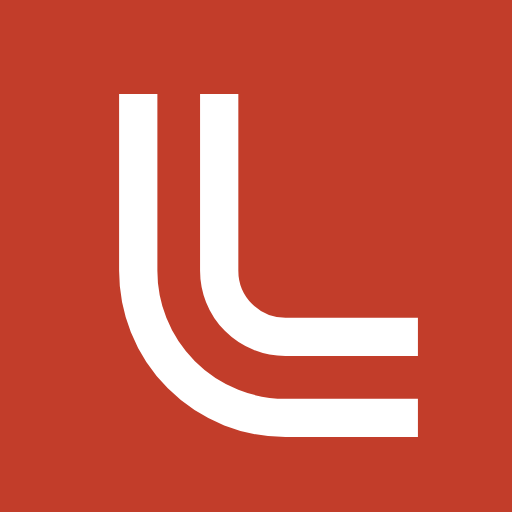
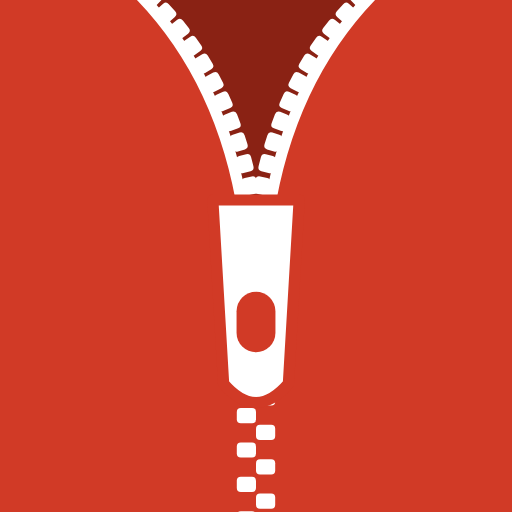
Ny symbol: dragkedjan. Nya appikoner och ett intro där dragkedjan dras upp
Claude-Session: https://claude.ai/code/session_01AwUbR1xwWbKDWtgtu7p8cN

Changed region(s): [[0.2188, 0.0, 0.8438, 1.0]]

diff --git a/index.html b/index.html
@@ -11,8 +11,10 @@
 <meta name="apple-mobile-web-app-status-bar-style" content="default">
 <meta name="apple-mobile-web-app-title" content="Löpkläder">
 <script>try{var t=(JSON.parse(localStorage.getItem("lopklader.v1.prefs")||"{}")||{}).theme;if(t==="light"||t==="dark")document.documentElement.dataset.theme=t}catch(e){}</script>
+<script>try{if(sessionStorage.getItem("lopklader.intro")||matchMedia("(prefers-reduced-motion: reduce)").matches)document.documentElement.classList.add("no-intro")}catch(e){}</script>
 <link rel="manifest" href="manifest.webmanifest">
-<link rel="icon" href="icon-192.png">
+<link rel="icon" href="favicon.svg" type="image/svg+xml">
+<link rel="icon" href="icon-192.png" type="image/png">
 <link rel="apple-touch-icon" href="apple-touch-icon.png">
 <link rel="preconnect" href="https://fonts.googleapis.com">
 <link rel="preconnect" href="https://fonts.gstatic.com" crossorigin>
@@ -51,9 +53,6 @@
   /* Topp */
   .top{display:flex;align-items:center;gap:9px}
   .logo{width:30px;height:30px;flex:none;display:block}
-  .logo .lane{stroke-dasharray:1;stroke-dashoffset:0}
-  .intro .logo .lane{animation:laneDraw .9s var(--ease) both}
-  .intro .logo .lane2{animation-delay:.15s}
   @keyframes laneDraw{from{stroke-dashoffset:1}to{stroke-dashoffset:0}}
   .wm{font-family:var(--cond);font-style:italic;font-weight:800;font-size:24px;line-height:1;text-transform:uppercase}
   .top-right{margin-left:auto;margin-right:-9px;display:flex;gap:0}
@@ -126,6 +125,16 @@
     #tabs{max-width:560px}
     #after{max-width:560px}
   }
+  /* intro */
+  #intro{position:fixed;inset:0;z-index:60;background:var(--paper);display:grid;place-items:center;transition:background-color .45s var(--ease)}
+  .no-intro #intro{display:none}
+  .intro-run #logo{opacity:0}
+  .intro-in{display:flex;flex-direction:column;align-items:center;gap:18px}
+  #introMark{width:112px;height:112px;transform-origin:center;transition:transform .5s var(--ease)}
+  .intro-wm{font-family:var(--cond);font-style:italic;font-weight:800;font-size:34px;line-height:1;text-transform:uppercase;opacity:0;translate:0 8px;transition:opacity .35s var(--ease),translate .35s var(--ease)}
+  .intro-wm.on{opacity:1;translate:0 0}
+  #intro.out{background-color:transparent;pointer-events:none}
+  #intro.out .intro-wm{opacity:0;transition-duration:.2s}
   .welcome{font-size:16px;line-height:1.45;color:var(--muted);margin:16px 0 0;max-width:36ch}
   .lay{position:relative;margin-top:24px;min-height:200px}
   .lay .it{position:absolute}
@@ -301,14 +310,11 @@
 </style>
 </head>
 <body>
+<div id="intro" aria-hidden="true"><div class="intro-in"><svg id="introMark" viewBox="0 0 64 64"><clipPath id="mki"><rect width="64" height="64" rx="15"/></clipPath><rect width="64" height="64" rx="15" fill="#D13A26"/><g clip-path="url(#mki)"><path d="M30.9 62 Q28.6 9 15.5 -2 H48.5 Q35.4 9 33.1 62 Z" fill="#8A2214"/><g class="zt-open"><rect x="30.66" y="56.19" width="2.2" height="1.9" rx=".5" transform="rotate(-93.1 31.76 57.14)" fill="#fff"/><rect x="30.17" y="48.56" width="2.2" height="1.9" rx=".5" transform="rotate(-94.3 31.27 49.51)" fill="#fff"/><rect x="29.54" y="41.42" width="2.2" height="1.9" rx=".5" transform="rotate(-95.7 30.64 42.37)" fill="#fff"/><rect x="28.79" y="34.78" width="2.2" height="1.9" rx=".5" transform="rotate(-97.3 29.89 35.73)" fill="#fff"/><rect x="27.91" y="28.63" width="2.2" height="1.9" rx=".5" transform="rotate(-99.1 29.01 29.58)" fill="#fff"/><rect x="26.89" y="22.97" width="2.2" height="1.9" rx=".5" transform="rotate(-101.3 27.99 23.92)" fill="#fff"/><rect x="25.75" y="17.80" width="2.2" height="1.9" rx=".5" transform="rotate(-103.8 26.85 18.75)" fill="#fff"/><rect x="24.47" y="13.12" width="2.2" height="1.9" rx=".5" transform="rotate(-106.8 25.57 14.07)" fill="#fff"/><rect x="23.06" y="8.92" width="2.2" height="1.9" rx=".5" transform="rotate(-110.5 24.16 9.87)" fill="#fff"/><rect x="21.51" y="5.21" width="2.2" height="1.9" rx=".5" transform="rotate(-115.1 22.61 6.16)" fill="#fff"/><rect x="19.82" y="1.98" width="2.2" height="1.9" rx=".5" transform="rotate(-120.6 20.92 2.93)" fill="#fff"/><rect x="17.97" y="-0.76" width="2.2" height="1.9" rx=".5" transform="rotate(-127.6 19.07 0.19)" fill="#fff"/><rect x="15.96" y="-3.03" width="2.2" height="1.9" rx=".5" transform="rotate(-136.1 17.06 -2.08)" fill="#fff"/><rect x="31.14" y="56.19" width="2.2" height="1.9" rx=".5" transform="rotate(-86.9 32.24 57.14)" fill="#fff"/><rect x="31.63" y="48.56" width="2.2" height="1.9" rx=".5" transform="rotate(-85.7 32.73 49.51)" fill="#fff"/><rect x="32.26" y="41.42" width="2.2" height="1.9" rx=".5" transform="rotate(-84.3 33.36 42.37)" fill="#fff"/><rect x="33.01" y="34.78" width="2.2" height="1.9" rx=".5" transform="rotate(-82.7 34.11 35.73)" fill="#fff"/><rect x="33.89" y="28.63" width="2.2" height="1.9" rx=".5" transform="rotate(-80.9 34.99 29.58)" fill="#fff"/><rect x="34.91" y="22.97" width="2.2" height="1.9" rx=".5" transform="rotate(-78.7 36.01 23.92)" fill="#fff"/><rect x="36.05" y="17.80" width="2.2" height="1.9" rx=".5" transform="rotate(-76.2 37.15 18.75)" fill="#fff"/><rect x="37.33" y="13.12" width="2.2" height="1.9" rx=".5" transform="rotate(-73.2 38.43 14.07)" fill="#fff"/><rect x="38.74" y="8.92" width="2.2" height="1.9" rx=".5" transform="rotate(-69.5 39.84 9.87)" fill="#fff"/><rect x="40.29" y="5.21" width="2.2" height="1.9" rx=".5" transform="rotate(-64.9 41.39 6.16)" fill="#fff"/><rect x="41.98" y="1.98" width="2.2" height="1.9" rx=".5" transform="rotate(-59.4 43.08 2.93)" fill="#fff"/><rect x="43.83" y="-0.76" width="2.2" height="1.9" rx=".5" transform="rotate(-52.4 44.93 0.19)" fill="#fff"/><rect x="45.84" y="-3.03" width="2.2" height="1.9" rx=".5" transform="rotate(-43.9 46.94 -2.08)" fill="#fff"/></g><path d="M16.1 -2 Q27.700000000000003 9 30.5 61" fill="none" stroke="#fff" stroke-width="1.4" stroke-linecap="round"/><path d="M47.9 -2 Q36.3 9 33.5 61" fill="none" stroke="#fff" stroke-width="1.4" stroke-linecap="round"/><g class="zt-closed"><rect x="29.6" y="63.5" width="2.4" height="1.9" rx=".5" fill="#fff"/><rect x="32" y="65.7" width="2.4" height="1.9" rx=".5" fill="#fff"/></g><g class="zp" transform="translate(32 59) scale(1.35) translate(-32 -59)"><path d="M28 59 H36 L35 76 Q32 79.5 29 76 Z" fill="#fff" stroke="#D13A26" stroke-width="1.04" stroke-linejoin="round"/><rect x="30.2" y="67.5" width="3.6" height="5.6" rx="1.8" fill="#D13A26"/></g></g></svg><span class="intro-wm">Löpkläder</span></div></div>
 <main class="app intro">
 
   <header class="top">
-    <svg class="logo" viewBox="0 0 64 64" aria-hidden="true">
-      <rect width="64" height="64" rx="14" fill="#D13A26"/>
-      <path class="lane" pathLength="1" d="M16 10v24a20 20 0 0 0 20 20h18" stroke="#fff" stroke-width="5" fill="none"/>
-      <path class="lane lane2" pathLength="1" d="M27 10v24a9 9 0 0 0 9 9h18" stroke="#fff" stroke-width="5" fill="none"/>
-    </svg>
+    <svg class="logo" id="logo" viewBox="0 0 64 64" aria-hidden="true"><clipPath id="mkh"><rect width="64" height="64" rx="15"/></clipPath><rect width="64" height="64" rx="15" fill="#D13A26"/><g clip-path="url(#mkh)"><path d="M30.9 28 Q28.6 9 15.5 -2 H48.5 Q35.4 9 33.1 28 Z" fill="#8A2214"/><g class="zt-open"><rect x="30.65" y="25.15" width="2.2" height="1.9" rx=".5" transform="rotate(-98.5 31.75 26.10)" fill="#fff"/><rect x="30.15" y="22.28" width="2.2" height="1.9" rx=".5" transform="rotate(-101.4 31.25 23.23)" fill="#fff"/><rect x="29.51" y="19.50" width="2.2" height="1.9" rx=".5" transform="rotate(-104.4 30.61 20.45)" fill="#fff"/><rect x="28.75" y="16.81" width="2.2" height="1.9" rx=".5" transform="rotate(-107.5 29.85 17.76)" fill="#fff"/><rect x="27.85" y="14.22" width="2.2" height="1.9" rx=".5" transform="rotate(-110.7 28.95 15.17)" fill="#fff"/><rect x="26.82" y="11.72" width="2.2" height="1.9" rx=".5" transform="rotate(-114.1 27.92 12.67)" fill="#fff"/><rect x="25.66" y="9.31" width="2.2" height="1.9" rx=".5" transform="rotate(-117.5 26.76 10.26)" fill="#fff"/><rect x="24.36" y="7.00" width="2.2" height="1.9" rx=".5" transform="rotate(-121.0 25.46 7.95)" fill="#fff"/><rect x="22.94" y="4.79" width="2.2" height="1.9" rx=".5" transform="rotate(-124.6 24.04 5.74)" fill="#fff"/><rect x="21.38" y="2.67" width="2.2" height="1.9" rx=".5" transform="rotate(-128.1 22.48 3.62)" fill="#fff"/><rect x="19.69" y="0.65" width="2.2" height="1.9" rx=".5" transform="rotate(-131.7 20.79 1.60)" fill="#fff"/><rect x="17.87" y="-1.27" width="2.2" height="1.9" rx=".5" transform="rotate(-135.2 18.97 -0.32)" fill="#fff"/><rect x="15.92" y="-3.09" width="2.2" height="1.9" rx=".5" transform="rotate(-138.6 17.02 -2.14)" fill="#fff"/><rect x="31.15" y="25.15" width="2.2" height="1.9" rx=".5" transform="rotate(-81.5 32.25 26.10)" fill="#fff"/><rect x="31.65" y="22.28" width="2.2" height="1.9" rx=".5" transform="rotate(-78.6 32.75 23.23)" fill="#fff"/><rect x="32.29" y="19.50" width="2.2" height="1.9" rx=".5" transform="rotate(-75.6 33.39 20.45)" fill="#fff"/><rect x="33.05" y="16.81" width="2.2" height="1.9" rx=".5" transform="rotate(-72.5 34.15 17.76)" fill="#fff"/><rect x="33.95" y="14.22" width="2.2" height="1.9" rx=".5" transform="rotate(-69.3 35.05 15.17)" fill="#fff"/><rect x="34.98" y="11.72" width="2.2" height="1.9" rx=".5" transform="rotate(-65.9 36.08 12.67)" fill="#fff"/><rect x="36.14" y="9.31" width="2.2" height="1.9" rx=".5" transform="rotate(-62.5 37.24 10.26)" fill="#fff"/><rect x="37.44" y="7.00" width="2.2" height="1.9" rx=".5" transform="rotate(-59.0 38.54 7.95)" fill="#fff"/><rect x="38.86" y="4.79" width="2.2" height="1.9" rx=".5" transform="rotate(-55.4 39.96 5.74)" fill="#fff"/><rect x="40.42" y="2.67" width="2.2" height="1.9" rx=".5" transform="rotate(-51.9 41.52 3.62)" fill="#fff"/><rect x="42.11" y="0.65" width="2.2" height="1.9" rx=".5" transform="rotate(-48.3 43.21 1.60)" fill="#fff"/><rect x="43.93" y="-1.27" width="2.2" height="1.9" rx=".5" transform="rotate(-44.8 45.03 -0.32)" fill="#fff"/><rect x="45.88" y="-3.09" width="2.2" height="1.9" rx=".5" transform="rotate(-41.4 46.98 -2.14)" fill="#fff"/></g><path d="M16.1 -2 Q27.700000000000003 9 30.5 27" fill="none" stroke="#fff" stroke-width="1.4" stroke-linecap="round"/><path d="M47.9 -2 Q36.3 9 33.5 27" fill="none" stroke="#fff" stroke-width="1.4" stroke-linecap="round"/><g class="zt-closed"><rect x="29.6" y="29.5" width="2.4" height="1.9" rx=".5" fill="#fff"/><rect x="32" y="31.6" width="2.4" height="1.9" rx=".5" fill="#fff"/><rect x="29.6" y="33.8" width="2.4" height="1.9" rx=".5" fill="#fff"/><rect x="32" y="35.9" width="2.4" height="1.9" rx=".5" fill="#fff"/><rect x="29.6" y="38.1" width="2.4" height="1.9" rx=".5" fill="#fff"/><rect x="32" y="40.2" width="2.4" height="1.9" rx=".5" fill="#fff"/><rect x="29.6" y="42.4" width="2.4" height="1.9" rx=".5" fill="#fff"/><rect x="32" y="44.5" width="2.4" height="1.9" rx=".5" fill="#fff"/><rect x="29.6" y="46.7" width="2.4" height="1.9" rx=".5" fill="#fff"/><rect x="32" y="48.8" width="2.4" height="1.9" rx=".5" fill="#fff"/><rect x="29.6" y="51.0" width="2.4" height="1.9" rx=".5" fill="#fff"/><rect x="32" y="53.1" width="2.4" height="1.9" rx=".5" fill="#fff"/><rect x="29.6" y="55.3" width="2.4" height="1.9" rx=".5" fill="#fff"/><rect x="32" y="57.4" width="2.4" height="1.9" rx=".5" fill="#fff"/><rect x="29.6" y="59.6" width="2.4" height="1.9" rx=".5" fill="#fff"/><rect x="32" y="61.7" width="2.4" height="1.9" rx=".5" fill="#fff"/><rect x="29.6" y="63.9" width="2.4" height="1.9" rx=".5" fill="#fff"/></g><g class="zp" transform="translate(32 25) scale(1.35) translate(-32 -25)"><path d="M28 25 H36 L35 42 Q32 45.5 29 42 Z" fill="#fff" stroke="#D13A26" stroke-width="1.04" stroke-linejoin="round"/><rect x="30.2" y="33.5" width="3.6" height="5.6" rx="1.8" fill="#D13A26"/></g></g></svg>
     <span class="wm">Löpkläder</span>
     <div class="top-right">
       <button class="icon-btn" id="meBtn" aria-label="Om dig"><span data-ic="user"></span></button>
@@ -1644,6 +1650,62 @@
     if(document.visibilityState === "visible" && place && Date.now() - fetchedAt > 20*60*1000) getWeather(place.lat, place.lon, place.name);
   });
 
+  // ---------- Symbolen och introt ----------
+  // Dragkedjan: vy är hur långt ned den är öppen (28 är logotypen, 62 helt öppen)
+  function markSVG(vy, cid){
+    const RED = "#D13A26", IN = "#8A2214", FG = "#fff", k = 1.35;
+    const cx = 28.6 - (vy - 28) * .12;
+    const L = [[30.9, vy], [cx, 9], [15.5, -2]], R = [[33.1, vy], [64 - cx, 9], [48.5, -2]];
+    const qb = (P, t) => [0, 1].map(j => (1 - t) ** 2 * P[0][j] + 2 * (1 - t) * t * P[1][j] + t * t * P[2][j]);
+    const qd = (P, t) => [0, 1].map(j => 2 * (1 - t) * (P[1][j] - P[0][j]) + 2 * t * (P[2][j] - P[1][j]));
+    let s = `<clipPath id="${cid}"><rect width="64" height="64" rx="15"/></clipPath><rect width="64" height="64" rx="15" fill="${RED}"/><g clip-path="url(#${cid})">`;
+    s += `<path d="M${L[0]} Q${L[1]} ${L[2]} H${R[2][0]} Q${R[1]} ${R[0]} Z" fill="${IN}"/>`;
+    [[L, 1], [R, -1]].forEach(([P, sg]) => {
+      for(let i = 0; i < 13; i++){
+        const t = (i + .6) / 13, [x, y] = qb(P, t), [dx, dy] = qd(P, t), l = Math.hypot(dx, dy), ux = dx / l, uy = dy / l;
+        const ex = x - uy * sg * 1.1, ey = y + ux * sg * 1.1, a = Math.atan2(uy, ux) * 180 / Math.PI;
+        s += `<rect x="${(ex - 1.1).toFixed(2)}" y="${(ey - .95).toFixed(2)}" width="2.2" height="1.9" rx=".5" transform="rotate(${a.toFixed(1)} ${ex.toFixed(2)} ${ey.toFixed(2)})" fill="${FG}"/>`;
+      }
+    });
+    s += `<path d="M16.1 -2 Q${cx - .9} 9 ${L[0][0] - .4} ${vy - 1}" fill="none" stroke="${FG}" stroke-width="1.4" stroke-linecap="round"/>`;
+    s += `<path d="M47.9 -2 Q${64 - cx + .9} 9 ${R[0][0] + .4} ${vy - 1}" fill="none" stroke="${FG}" stroke-width="1.4" stroke-linecap="round"/>`;
+    for(let y = vy + 1.5, i = 0; y < 66; y += 2.15, i++) s += `<rect x="${i % 2 ? 32 : 29.6}" y="${y.toFixed(1)}" width="2.4" height="1.9" rx=".5" fill="${FG}"/>`;
+    s += `<g transform="translate(32 ${vy - 3}) scale(${k}) translate(-32 ${-(vy - 3)})"><path d="M28 ${vy - 3} H36 L35 ${vy + 14} Q32 ${vy + 17.5} 29 ${vy + 14} Z" fill="${FG}" stroke="${RED}" stroke-width="${(1.4 / k).toFixed(2)}" stroke-linejoin="round"/><rect x="30.2" y="${vy + 5.5}" width="3.6" height="5.6" rx="1.8" fill="${RED}"/></g>`;
+    return s + "</g>";
+  }
+  // Introt: dragkedjan dras upp, ordbilden kommer fram, och logotypen flyttar upp till sidhuvudet
+  function playIntro(){
+    const box = $("intro");
+    if(!box || document.documentElement.classList.contains("no-intro")){ if(box) box.remove(); return; }
+    try{ sessionStorage.setItem("lopklader.intro", "1"); }catch(e){}
+    const mk = $("introMark"), wm = box.querySelector(".intro-wm");
+    let done = false;
+    const finish = () => { if(done) return; done = true; box.remove(); document.documentElement.classList.remove("intro-run"); };
+    document.documentElement.classList.add("intro-run");
+    box.addEventListener("click", () => { box.classList.add("out"); setTimeout(finish, 250); });
+    const t0 = performance.now(), UP = 760;
+    // lätt överskjutning på slutet, som när man drar upp en dragkedja med ett ryck
+    const ease = t => { const c = 1.6; return 1 + (c + 1) * Math.pow(t - 1, 3) + c * Math.pow(t - 1, 2); };
+    const step = now => {
+      if(done) return;
+      const t = Math.min(1, (now - t0) / UP);
+      mk.innerHTML = markSVG(62 - 34 * ease(t), "mki");
+      if(t < 1) requestAnimationFrame(step);
+      else {
+        wm.classList.add("on");
+        setTimeout(() => {
+          // flytta symbolen till sidhuvudets logotyp
+          const a = mk.getBoundingClientRect(), b = $("logo").getBoundingClientRect();
+          const dx = b.left + b.width / 2 - (a.left + a.width / 2), dy = b.top + b.height / 2 - (a.top + a.height / 2);
+          mk.style.transform = `translate(${dx}px, ${dy}px) scale(${b.width / a.width})`;
+          box.classList.add("out");
+          setTimeout(finish, 520);
+        }, 520);
+      }
+    };
+    requestAnimationFrame(step);
+  }
+
   // ---------- Start ----------
   const saved = getJSON(KEY + ".place");
   if(saved && typeof saved.lat === "number") place = saved;
@@ -1660,6 +1722,7 @@
   if(place) getWeather(place.lat, place.lon, place.name);
   else { $("welcome").hidden = false; openDlg("placeDlg"); }
 
+  playIntro();
   if("serviceWorker" in navigator && location.protocol === "https:"){
     navigator.serviceWorker.register("sw.js").catch(() => {});
   }

diff --git a/sw.js b/sw.js
@@ -1,7 +1,7 @@
 // Enkel service worker: gör att appen kan installeras och öppnas snabbt.
 // Själva sidan hämtas alltid färsk när det finns nät, vädret cachas aldrig.
-const CACHE = "lopklader-v22";
-const SHELL = ["./", "index.html", "manifest.webmanifest", "icon-192.png", "icon-512.png", "apple-touch-icon.png"];
+const CACHE = "lopklader-v23";
+const SHELL = ["./", "index.html", "manifest.webmanifest", "icon-192.png", "icon-512.png", "apple-touch-icon.png", "icon-maskable-512.png", "favicon.svg"];
 
 self.addEventListener("install", e => {
   e.waitUntil(caches.open(CACHE).then(c => c.addAll(SHELL)).then(() => self.skipWaiting()));

diff --git a/README.md b/README.md
@@ -28,6 +28,10 @@ Klädförslag för löpning utifrån vädret där du är. Appen lär sig hur du 
 
 Lägg till på hemskärmen: öppna sidan i mobilen, välj Dela och sedan Lägg till på hemskärmen.
 
+## Symbol
+
+Symbolen är en dragkedja som är öppen upptill och visar ett lager under, ritad i kod (samma form i sidhuvudet, appikonen och introt). När appen öppnas dras dragkedjan upp, en gång per session.
+
 ## Ikoner
 
 Ikonerna kommer från [Lucide](https://lucide.dev) (ISC). Animationerna bygger på [lucide-animated](https://lucide-animated.com) (MIT) och är omsatta till CSS. Se [THIRD_PARTY_LICENSES.md](THIRD_PARTY_LICENSES.md).
